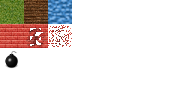
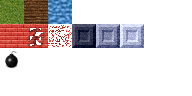
Added the unbreakable SteelWall.
Comes in three different colors.

Changed region(s): [[0.375, 0.25, 0.75, 0.5]]

diff --git a/core/src/wge3/world/Area.java b/core/src/wge3/world/Area.java
@@ -20,6 +20,7 @@ import wge3.entity.ground.WoodenFloor;
 import wge3.entity.items.Bomb;
 import wge3.entity.mapobjects.BrickWall;
 import wge3.entity.mapobjects.LightSource;
+import wge3.entity.mapobjects.SteelWall;
 import wge3.entity.terrainelements.Ground;
 import wge3.entity.terrainelements.Item;
 import wge3.entity.terrainelements.MapObject;
@@ -81,9 +82,13 @@ public final class Area implements Drawable {
             for (int x = 0; x < size; x++) {
                 MapObject object;
                 switch (mapLoader.nextInt()) {
-                    case 0: object = null; break;
-                    case 9: object = new BrickWall(); break;
-                    default:object = null; break;
+                    case 0:  object = null; break;
+                    case 9:  object = new BrickWall(); break;
+                    case 12: object = new SteelWall(0); break;
+                    case 13: object = new SteelWall(1); break;
+                    case 14: object = new SteelWall(2); break;
+                    case 17: object = new Bomb(); break;
+                    default: object = null; break;
                 }
                 if (object != null) {
                     map[x][y].setObject(object);

diff --git a/core/src/wge3/entity/mapobjects/SteelWall.java b/core/src/wge3/entity/mapobjects/SteelWall.java
@@ -1,0 +1,16 @@
+package wge3.entity.mapobjects;
+
+import com.badlogic.gdx.graphics.g2d.Sprite;
+import wge3.world.Tile;
+
+public final class SteelWall extends Wall {
+
+    public SteelWall(int type) {
+        if (type < 0 || type > 2) throw new IllegalArgumentException();
+        sprite = new Sprite(texture, Tile.size, 3*Tile.size + type*Tile.size, Tile.size, Tile.size);
+    }
+
+    @Override
+    public void dealDamage(int amount) {
+    }
+}
